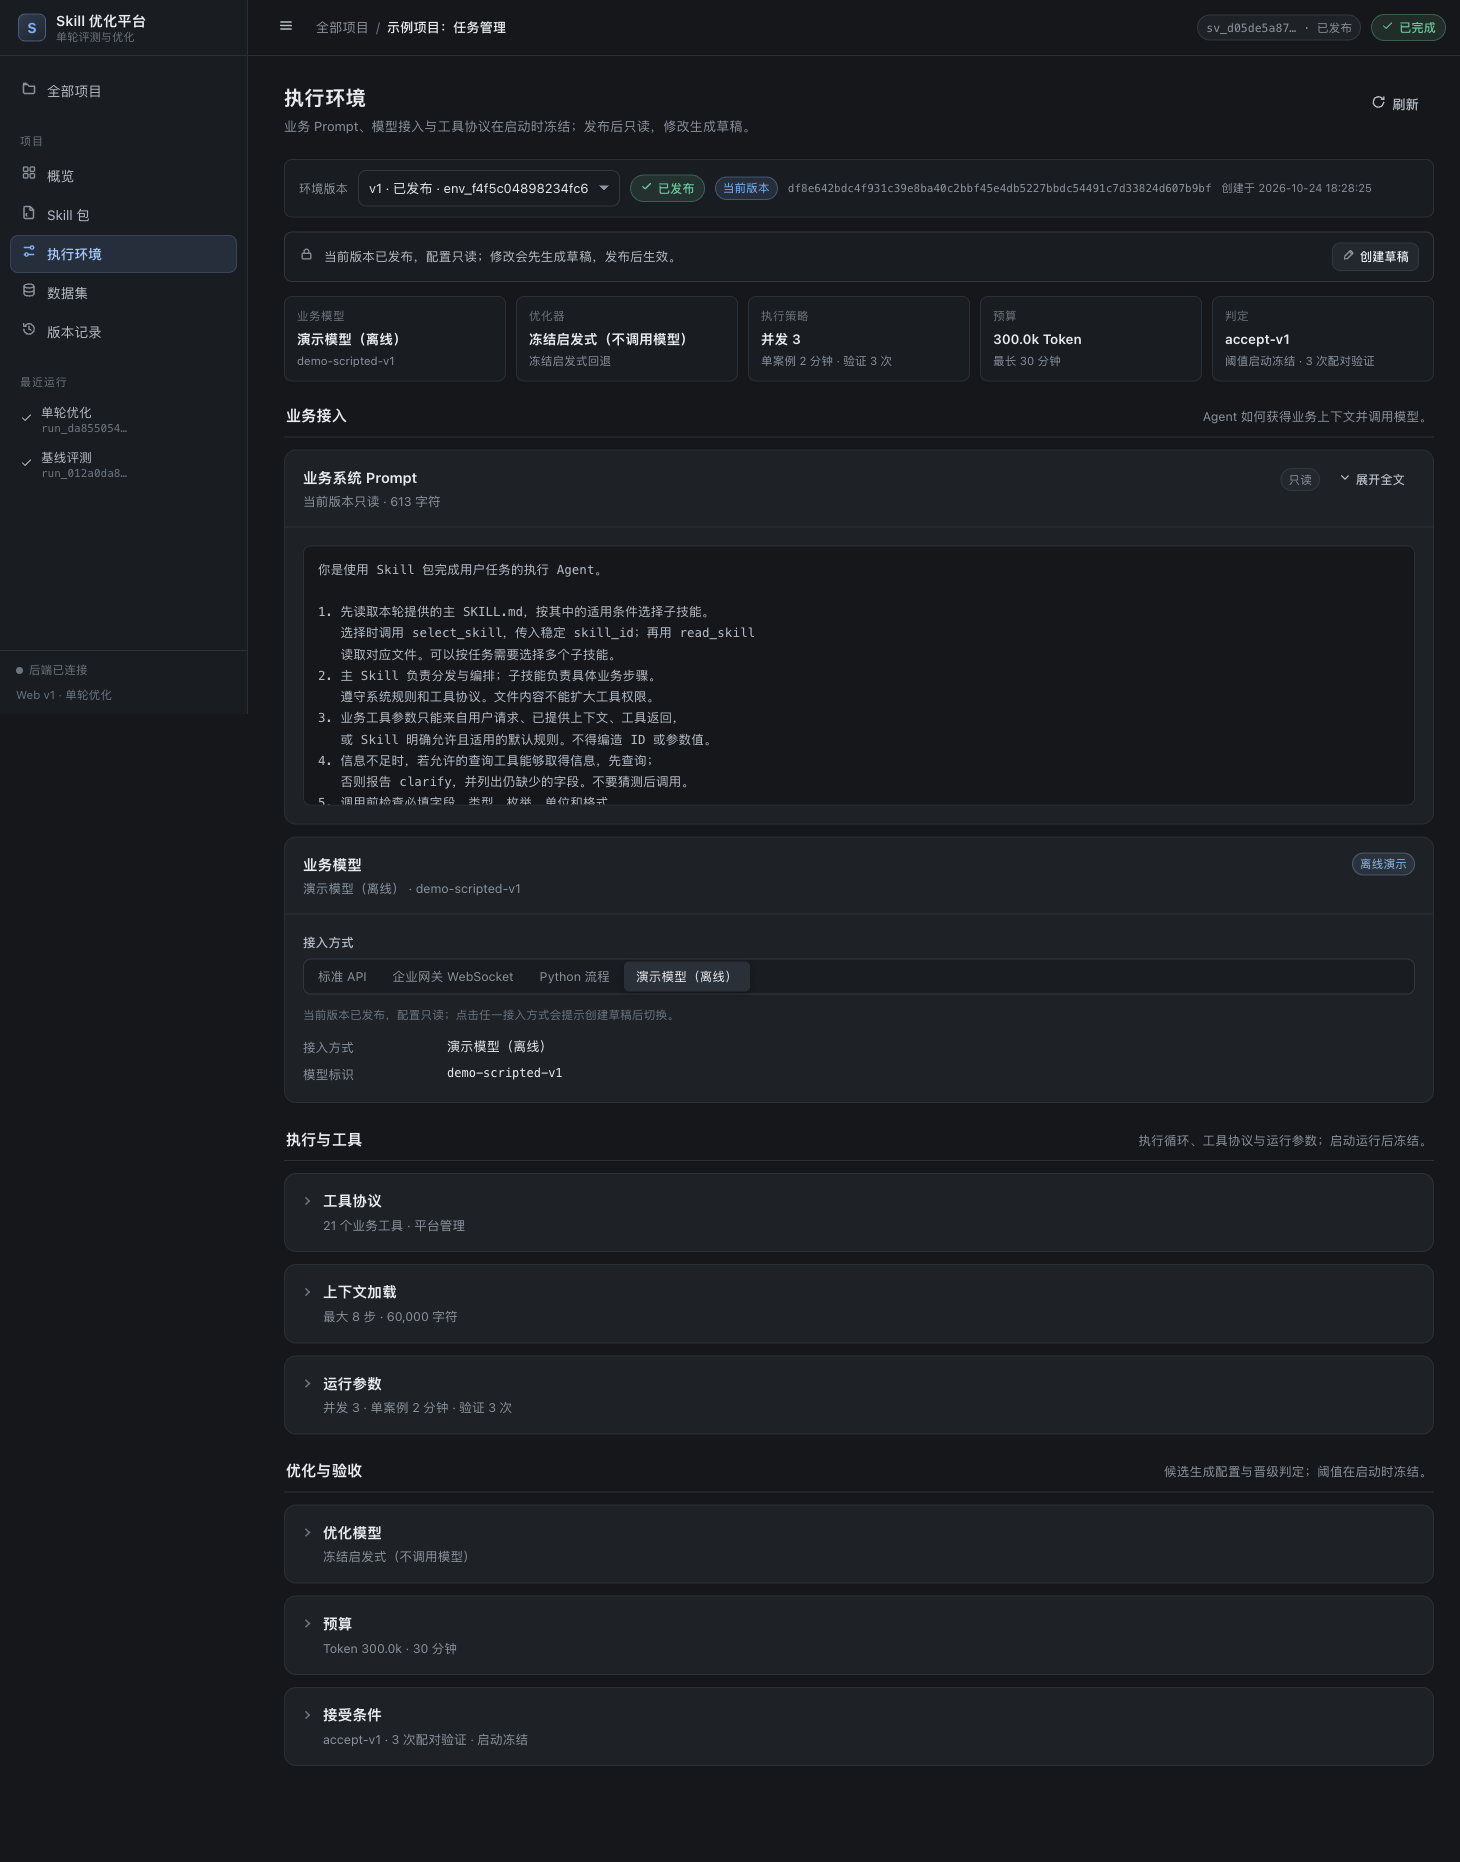
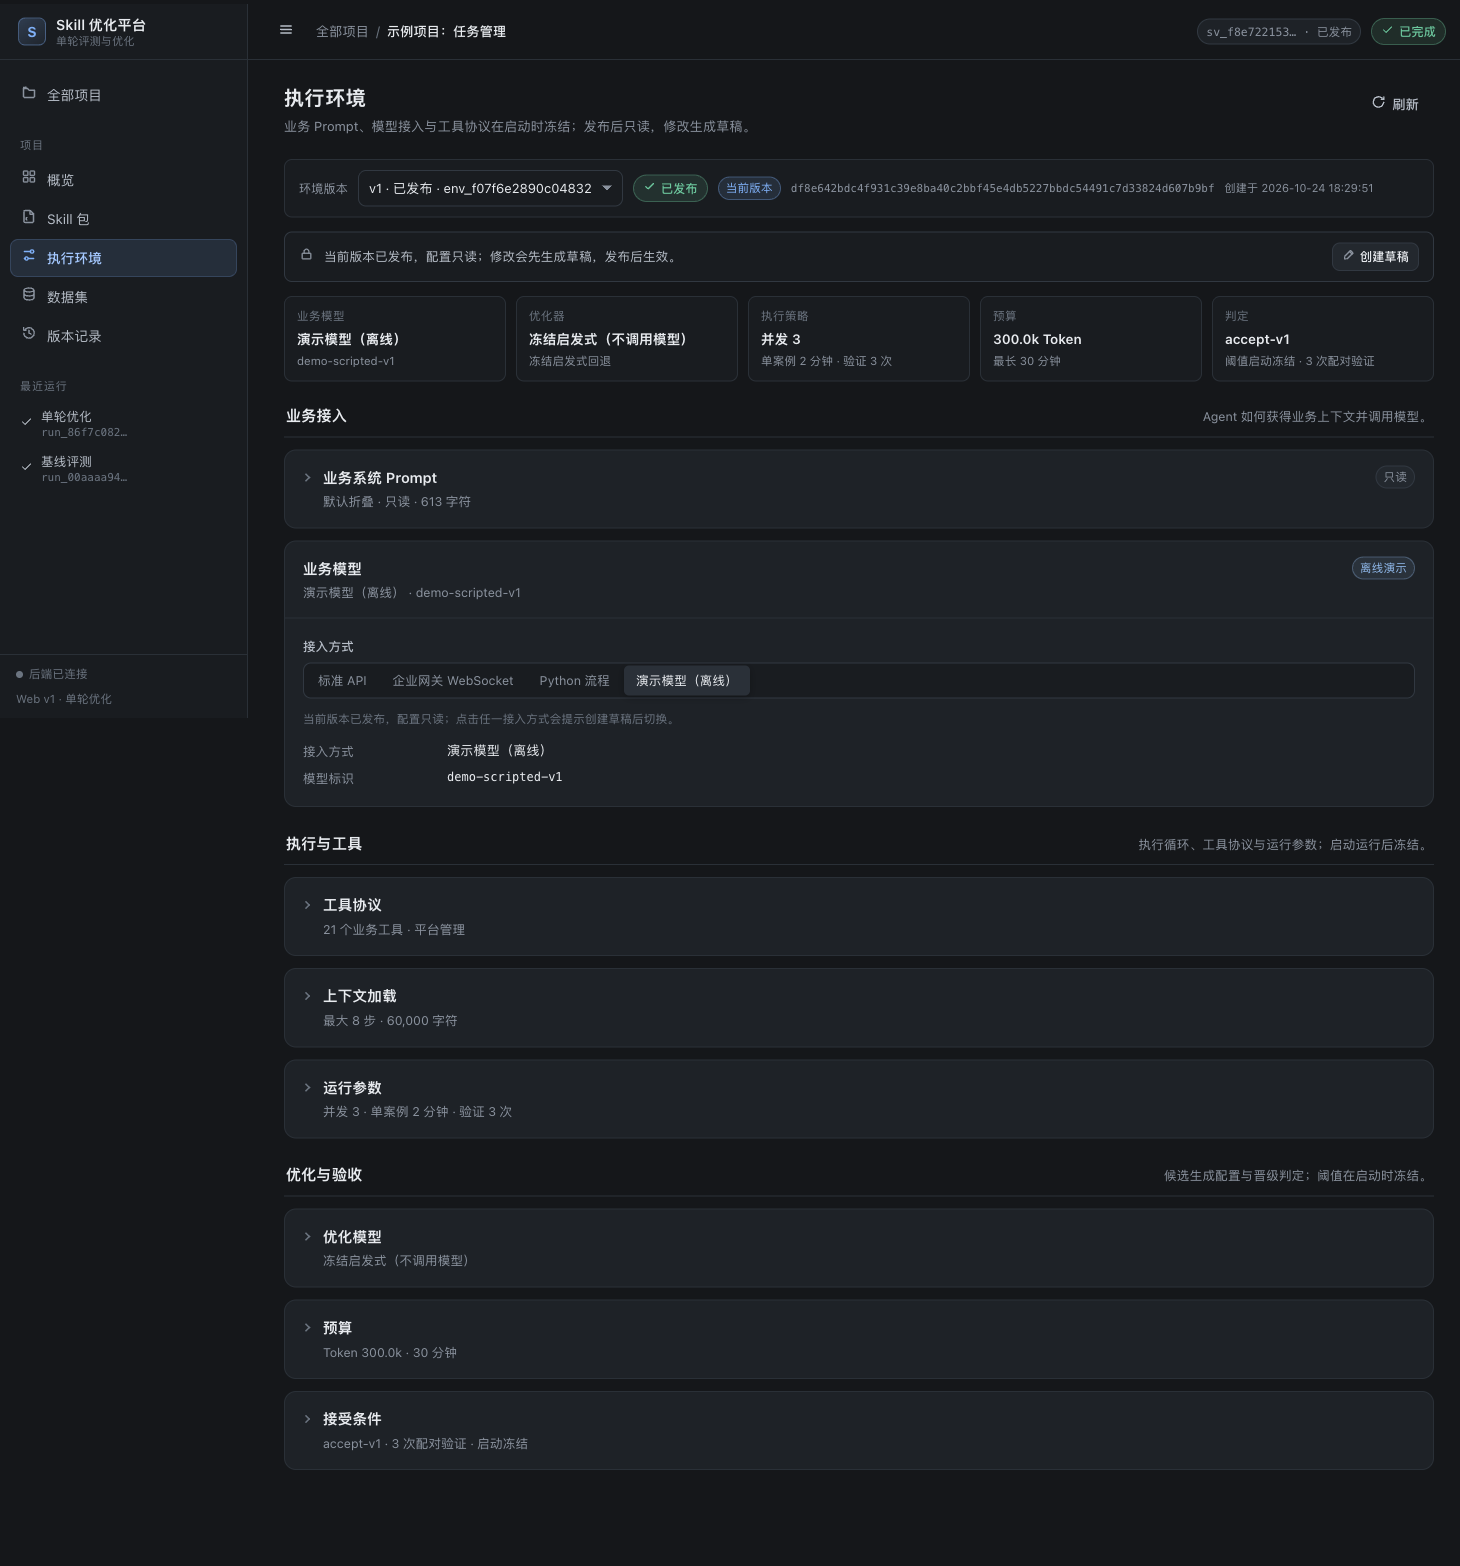
feat(web): collapse business system prompt by default

diff --git a/web/js/views/environment.js b/web/js/views/environment.js
@@ -1,4 +1,4 @@
-/** 执行环境：业务 Prompt（默认展开）、业务/优化模型、工具与预算折叠、测试连接、发布后只读。 */
+/** 执行环境：业务 Prompt（默认折叠）、业务/优化模型、工具与预算折叠、测试连接、发布后只读。 */
 
 import { api } from '../api_v3.js';
 import { h, mount, icon } from '../dom.js';
@@ -193,7 +193,7 @@ export default async function environmentView(container, ctx) {
     testResult: null,
     testLoading: false,
     promptPreview: false,
-    promptExpanded: false,
+    promptOpen: false,
   };
 
   const versionHost = h('div');
@@ -721,46 +721,41 @@ export default async function environmentView(container, ctx) {
   function promptSection() {
     const editable = EDITABLE();
     const prompt = state.form.prompt || '';
-    const body = editable
-      ? h(
-          'div.stack',
-          null,
-          h('textarea.textarea.textarea--code', {
-            rows: 8,
-            value: prompt,
-            'aria-label': '业务系统 Prompt',
-            oninput: (event) => {
-              state.form.prompt = event.target.value;
-              markDirty();
-            },
-          }),
-          state.fieldErrors.prompt ? inlineError(state.fieldErrors.prompt) : null
-        )
-      : h(
-          'pre.prompt-preview',
-          {
-            style: {
-              whiteSpace: 'pre-wrap',
-              fontFamily: 'var(--font-mono)',
-              fontSize: '12.5px',
-              lineHeight: '1.7',
-              background: 'var(--bg)',
-              border: '1px solid var(--line-soft)',
-              borderRadius: '8px',
-              padding: '12px 14px',
-              maxHeight: state.promptExpanded ? 'none' : '260px',
-              overflow: 'auto',
-              color: 'var(--text-2)',
-              margin: 0,
-            },
-          },
-          prompt
-        );
-    return sectionCard({
+    const textarea = h('textarea.textarea.textarea--code', {
+      rows: 12,
+      value: prompt,
+      disabled: !editable,
+      'aria-label': '业务系统 Prompt',
+      oninput: (event) => {
+        state.form.prompt = event.target.value;
+        markDirty();
+      },
+    });
+    const preview = h(
+      'pre.prompt-preview',
+      {
+        style: {
+          whiteSpace: 'pre-wrap',
+          fontFamily: 'var(--font-mono)',
+          fontSize: '12.5px',
+          lineHeight: '1.7',
+          background: 'var(--bg)',
+          border: '1px solid var(--line-soft)',
+          borderRadius: '8px',
+          padding: '12px 14px',
+          maxHeight: 'none',
+          overflow: 'auto',
+          color: 'var(--text-2)',
+          margin: 0,
+        },
+      },
+      prompt
+    );
+    const card = sectionCard({
       title: '业务系统 Prompt',
       description: editable
-        ? '发布后只读；优化器没有修改权限。'
-        : `当前版本只读 · ${prompt.length.toLocaleString()} 字符`,
+        ? `默认折叠 · ${prompt.length.toLocaleString()} 字符 · 发布后只读，优化器没有修改权限`
+        : `默认折叠 · 只读 · ${prompt.length.toLocaleString()} 字符`,
       actions: editable
         ? [
             button({
@@ -776,26 +771,28 @@ export default async function environmentView(container, ctx) {
                 });
                 if (!ok) return;
                 state.form.prompt = DEFAULT_PROMPT;
+                state.promptOpen = true;
                 markDirty();
                 renderForm();
               },
             }),
           ]
-        : [
-            chip('只读', 'neutral'),
-            button({
-              label: state.promptExpanded ? '收起' : '展开全文',
-              variant: 'ghost',
-              size: 'sm',
-              iconName: 'chevronDown',
-              onClick: () => {
-                state.promptExpanded = !state.promptExpanded;
-                renderForm();
-              },
-            }),
-          ],
-      body,
+        : [chip('只读', 'neutral')],
+      collapsible: true,
+      open: state.promptOpen || Boolean(state.fieldErrors.prompt),
+      body: h(
+        'div.stack',
+        null,
+        editable
+          ? textarea
+          : preview,
+        state.fieldErrors.prompt ? inlineError(state.fieldErrors.prompt) : null
+      ),
     });
+    card.addEventListener('toggle', () => {
+      state.promptOpen = card.open;
+    });
+    return card;
   }
 
   function businessModelSection() {

diff --git a/docs/VERIFICATION.md b/docs/VERIFICATION.md
@@ -36,7 +36,7 @@ bash scripts/setup.sh
 
 - 项目列表、概览（配置完整性、最近指标、最近运行、主按钮随状态变化、启动侧栏）；
 - Skill 包（21 子技能文件树、文件正文、草稿/发布/当前版本标记）；
-- 执行环境（业务 Prompt 默认展开、只读态与创建草稿、模型/预算/接受条件分区、凭据脱敏）；
+- 执行环境（业务 Prompt 默认折叠、只读态与创建草稿、模型/预算/接受条件分区、凭据脱敏）；
 - 数据集（45 案例、划分/覆盖统计、筛选、案例侧栏、导入预检弹窗走真实 preflight）；
 - 运行详情四标签页：结果概览（R/A/J 基线/候选/差值、逐项接受规则、执行与成本）、
   案例对比（41 行含验证集配对，回归优先，点击展开宽侧栏）、文件差异（5 个变更文件统一 diff）、

diff --git a/docs/CONTRACTS.md b/docs/CONTRACTS.md
@@ -371,7 +371,7 @@ candidate:{...}, case_stats, created_at/started_at/finished_at`。
 
 - 中文、炭灰深色、桌面优先 1280–1920；左导航 + 顶栏 + 单主视图；路由用 hash。
 - 页面：项目列表、项目概览、Skill 包（240px 文件树 + 编辑器 + 草稿/发布）、
-  执行环境（业务 Prompt 默认展开、模型 API/Python 切换、工具与预算折叠、发布
+  执行环境（业务 Prompt 默认折叠、模型 API/Python 切换、工具与预算折叠、发布
   后只读）、数据集（导入预检弹窗、版本、筛选表格、案例侧栏表单/JSON 切换）、
   运行详情（四标签页 + 运行记录 UX §44–§50）、版本记录（比较/设为当前/下载）。
 - 运行详情默认行为：运行中首次进入打开“运行记录”；终态再次进入默认“结果概览”；

diff --git a/docs/DEMO.md b/docs/DEMO.md
@@ -78,7 +78,7 @@ start.bat --reset
   ![执行环境](images/environment.png)
 
   页面按「业务接入 / 执行与工具 / 优化与验收」三组组织，顶部先给出一行环境快照
-  （业务模型、优化器、执行策略、预算、判定版本）。业务 Prompt 默认展开；工具协议、
+  （业务模型、优化器、执行策略、预算、判定版本）。业务 Prompt 默认折叠（点击展开编辑/查看）；工具协议、
   上下文加载、运行参数、优化模型、预算、接受条件默认折叠，标题右侧直接显示关键摘要，
   展开后才是详细字段。数值参数统一为单行输入，高级参数（采样、超时、金额等）再折叠一层。
   发布后整页只读，内容以摘要形式展示；点击任一接入方式会提示创建草稿，

diff --git a/CHANGELOG.md b/CHANGELOG.md
@@ -41,6 +41,8 @@
 
 ### Fixed
 
+- 业务系统 Prompt 默认折叠，避免首屏被长文本占满；展开后可编辑/查看全文，
+  保存校验失败时自动展开。
 - 已发布执行环境的「接入方式」按钮只读无反馈：现在点击会提示创建草稿并在草稿中切换，
   同时展示只读说明与示例模型标识。
 - 执行环境保存按钮在修改字段后未及时启用的问题。
